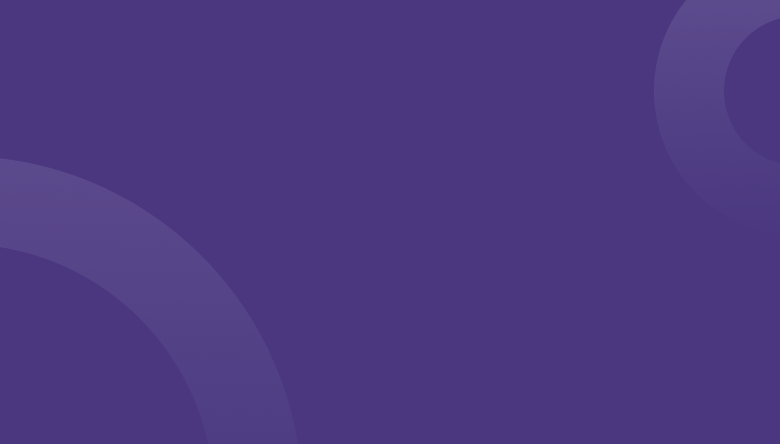
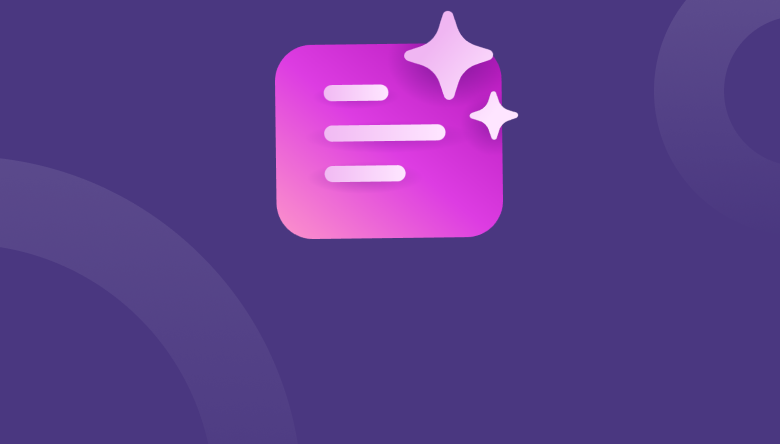
feat(app): add animation

Changed region(s): [[0.3385, 0.0293, 0.6769, 0.5563]]

diff --git a/lib/widgets/new_todo.dart b/lib/widgets/new_todo.dart
@@ -1,6 +1,8 @@
 import 'package:flutter/material.dart';
+import 'package:google_fonts/google_fonts.dart';
 import 'package:my_todo_list/models/todo.dart';
 import 'package:my_todo_list/models/category.dart';
+import 'package:dropdown_search/dropdown_search.dart';
 
 class NewTodo extends StatefulWidget {
   const NewTodo({super.key, required this.onAddTodo});
@@ -13,11 +15,33 @@ class NewTodo extends StatefulWidget {
 
 class _NewTodoState extends State<NewTodo> {
   final _titleController = TextEditingController();
-  Category _selectedCategory = Category.personal;
+  Category? _selectedCategory;
+  final List<String> categories = Category.values.map((e) => e.name).toList();
+
+  void _showErrorDialog() {
+    showDialog(
+      context: context,
+      builder:
+          (ctx) => AlertDialog(
+            title: Text('Invalid input'),
+            content: Text('Please enter a valid title and select a category'),
+            actions: [
+              TextButton(
+                onPressed: () => Navigator.pop(ctx),
+                child: Text('Okay'),
+              ),
+            ],
+          ),
+    );
+  }
 
   void _submitTodoData() {
     final enteredTitle = _titleController.text;
-    final todo = Todo.create(title: enteredTitle, category: _selectedCategory);
+    if (enteredTitle.isEmpty || _selectedCategory == null) {
+      _showErrorDialog();
+      return;
+    }
+    final todo = Todo.create(title: enteredTitle, category: _selectedCategory!);
     widget.onAddTodo(todo);
     Navigator.pop(context);
   }
@@ -33,6 +57,26 @@ class _NewTodoState extends State<NewTodo> {
           child: Column(
             crossAxisAlignment: CrossAxisAlignment.start,
             children: [
+              const SizedBox(height: 8),
+              Center(
+                child: Image.asset(
+                  'assets/icons/trophy-16.png',
+                  width: 50,
+                  height: 50,
+                ),
+              ),
+              const SizedBox(height: 8),
+              Center(
+                child: Text(
+                  'Add a new item',
+                  style: GoogleFonts.chewy(
+                    fontSize: 24,
+                    fontWeight: FontWeight.bold,
+                    color: Color.fromARGB(255, 136, 113, 198),
+                  ),
+                ),
+              ),
+              const SizedBox(height: 16),
               TextField(
                 controller: _titleController,
                 maxLength: 50,
@@ -40,31 +84,29 @@ class _NewTodoState extends State<NewTodo> {
                   enabledBorder: OutlineInputBorder(
                     borderSide: BorderSide(
                       color: Color.fromARGB(255, 74, 55, 128),
-                      width: 2.0,
+                      width: 1.0,
                     ),
-                    borderRadius: BorderRadius.circular(
-                      10.0,
-                    ), // Rounded corners
+                    borderRadius: BorderRadius.circular(5.0), // Rounded corners
                   ),
                   label: Text('Item Name'),
                 ),
               ),
-
-              DropdownButton(
-                value: _selectedCategory,
-                items:
-                    Category.values
-                        .map(
-                          (category) => DropdownMenuItem(
-                            value: category,
-                            child: Text(category.name.toUpperCase()),
-                          ),
-                        )
-                        .toList(),
+              const SizedBox(height: 16),
+              DropdownSearch<String>(
+                items: (f, cs) => categories,
+                popupProps: PopupProps.menu(
+                  fit: FlexFit.loose,
+                  showSelectedItems: true,
+                ),
                 onChanged: (value) {
                   setState(() {
-                    _selectedCategory = value!;
+                    _selectedCategory = Category.values.firstWhere(
+                      (category) => category.name == value,
+                    );
                   });
+                },
+                compareFn: (String item1, String item2) {
+                  return item1 == item2;
                 },
               ),
               const SizedBox(height: 16),

diff --git a/lib/widgets/todo_list/todo_item.dart b/lib/widgets/todo_list/todo_item.dart
@@ -3,6 +3,7 @@ import 'package:my_todo_list/models/todo.dart';
 import 'package:google_fonts/google_fonts.dart';
 import 'package:my_todo_list/models/category.dart';
 import 'package:hive/hive.dart';
+import 'package:confetti/confetti.dart';
 
 class TodoItem extends StatefulWidget {
   const TodoItem({super.key, required this.todo, required this.index});
@@ -15,19 +16,34 @@ class TodoItem extends StatefulWidget {
 }
 
 class _TodoItemState extends State<TodoItem> {
+  late ConfettiController _confettiController;
   late Box<Todo> _todoBox;
 
   @override
   void initState() {
     super.initState();
     _todoBox = Hive.box<Todo>('todoListBox');
+    _confettiController = ConfettiController(duration: Duration(seconds: 1));
   }
 
   void _toggleTodo(bool value) async {
-    Todo todo = widget.todo;
-    final updateTodo = todo.copyWith(isDone: value);
-    await _todoBox.put(updateTodo.id, updateTodo);
+    final int duration = value ? 500 : 0;
+    Future.delayed(Duration(milliseconds: duration), () async {
+      Todo todo = widget.todo;
+      final updateTodo = todo.copyWith(isDone: value);
+      await _todoBox.put(updateTodo.id, updateTodo);
+    });
+
+    if (value) {
+      _confettiController.play();
+    }
   }
+
+  /* @override
+  void dispose() {
+    _confettiController.dispose();
+    super.dispose();
+  } */
 
   @override
   Widget build(BuildContext context) {
@@ -41,12 +57,18 @@ class _TodoItemState extends State<TodoItem> {
               width: 35,
               height: 35,
               decoration: BoxDecoration(
-                color: categoryColors[widget.todo.category],
+                color:
+                    widget.todo.isDone
+                        ? Colors.grey
+                        : categoryColors[widget.todo.category],
                 shape: BoxShape.circle,
               ),
               child: Icon(
                 categoryIcons[widget.todo.category],
-                color: Color.fromARGB(255, 74, 55, 128),
+                color:
+                    widget.todo.isDone
+                        ? const Color.fromARGB(255, 104, 103, 103)
+                        : Color.fromARGB(255, 74, 55, 128),
               ),
             ),
             const SizedBox(width: 16),
@@ -83,9 +105,24 @@ class _TodoItemState extends State<TodoItem> {
                 ],
               ),
             ),
-            Checkbox(
-              value: widget.todo.isDone,
-              onChanged: (value) => _toggleTodo(value!),
+            IconButton(
+              iconSize: 32,
+              icon: Icon(
+                widget.todo.isDone ? Icons.check_circle : Icons.circle_outlined,
+                color: widget.todo.isDone ? Colors.green : Colors.grey,
+              ),
+              onPressed: () => _toggleTodo(!widget.todo.isDone),
+            ),
+
+            Align(
+              alignment: Alignment.topCenter,
+              child: ConfettiWidget(
+                confettiController: _confettiController,
+                blastDirectionality: BlastDirectionality.explosive,
+                emissionFrequency: 0.05,
+                numberOfParticles: 10,
+                gravity: 0.1,
+              ),
             ),
           ],
         ),

diff --git a/lib/widgets/new_todo_assistant.dart b/lib/widgets/new_todo_assistant.dart
@@ -1,4 +1,5 @@
 import 'package:flutter/material.dart';
+import 'package:google_fonts/google_fonts.dart';
 import 'package:my_todo_list/models/todo.dart';
 import 'dart:convert';
 import 'package:http/http.dart' as http;
@@ -42,9 +43,21 @@ class _NewTodoAssistantState extends State<NewTodoAssistant> {
     );
   }
 
+  Todo _parseTodoList(String item) {
+    final itemSplited = item.split(':');
+    final categoryString =
+        itemSplited[0].replaceAll('-', '').trim().toLowerCase();
+
+    final category = Category.values.firstWhere(
+      (category) => category.name == categoryString,
+    );
+
+    return Todo.create(title: itemSplited[1].trim(), category: category);
+  }
+
   Future<void> _generateTodoList() async {
     final assistantText =
-        'Generate a to-do list based on the following description: ${_assistantController.text}. Return the list in bullet points with a maximum of 10 items.';
+        'Generate a to-do list based on the following description: ${_assistantController.text}. Return the list in bullet points with a maximum of 10 items. For each item, also specify the category it belongs to: ${CategoryAdapter().categoryNames}. return the list following the format: - category: item';
     setState(() {
       _isLoading = true;
     });
@@ -74,12 +87,7 @@ class _NewTodoAssistantState extends State<NewTodoAssistant> {
         final List<Todo> todoItems =
             lines
                 .where((line) => line.trim().isNotEmpty)
-                .map(
-                  (item) => Todo.create(
-                    title: item.replaceAll('-', '').trim(),
-                    category: Category.other,
-                  ),
-                )
+                .map((item) => _parseTodoList(item))
                 .toList();
 
         widget.onAddTodo(todoItems);
@@ -131,6 +139,26 @@ class _NewTodoAssistantState extends State<NewTodoAssistant> {
           padding: EdgeInsets.fromLTRB(16, 16, 16, 16 + keyboardSpace),
           child: Column(
             children: [
+              const SizedBox(height: 8),
+              Center(
+                child: Image.asset(
+                  'assets/icons/bot-16.png',
+                  width: 50,
+                  height: 50,
+                ),
+              ),
+              const SizedBox(height: 8),
+              Center(
+                child: Text(
+                  'Add your magic todo list',
+                  style: GoogleFonts.chewy(
+                    fontSize: 24,
+                    fontWeight: FontWeight.bold,
+                    color: Color.fromARGB(255, 136, 113, 198),
+                  ),
+                ),
+              ),
+              const SizedBox(height: 16),
               TextField(
                 controller: _assistantController,
                 maxLines: 10,

diff --git a/lib/models/category.dart b/lib/models/category.dart
@@ -31,4 +31,9 @@ class CategoryAdapter extends TypeAdapter<Category> {
   void write(BinaryWriter writer, Category obj) {
     writer.writeInt(obj.index);
   }
+
+  String get categoryNames {
+    List<String> categoryValues = Category.values.map((e) => e.name).toList();
+    return categoryValues.join(', ');
+  }
 }
